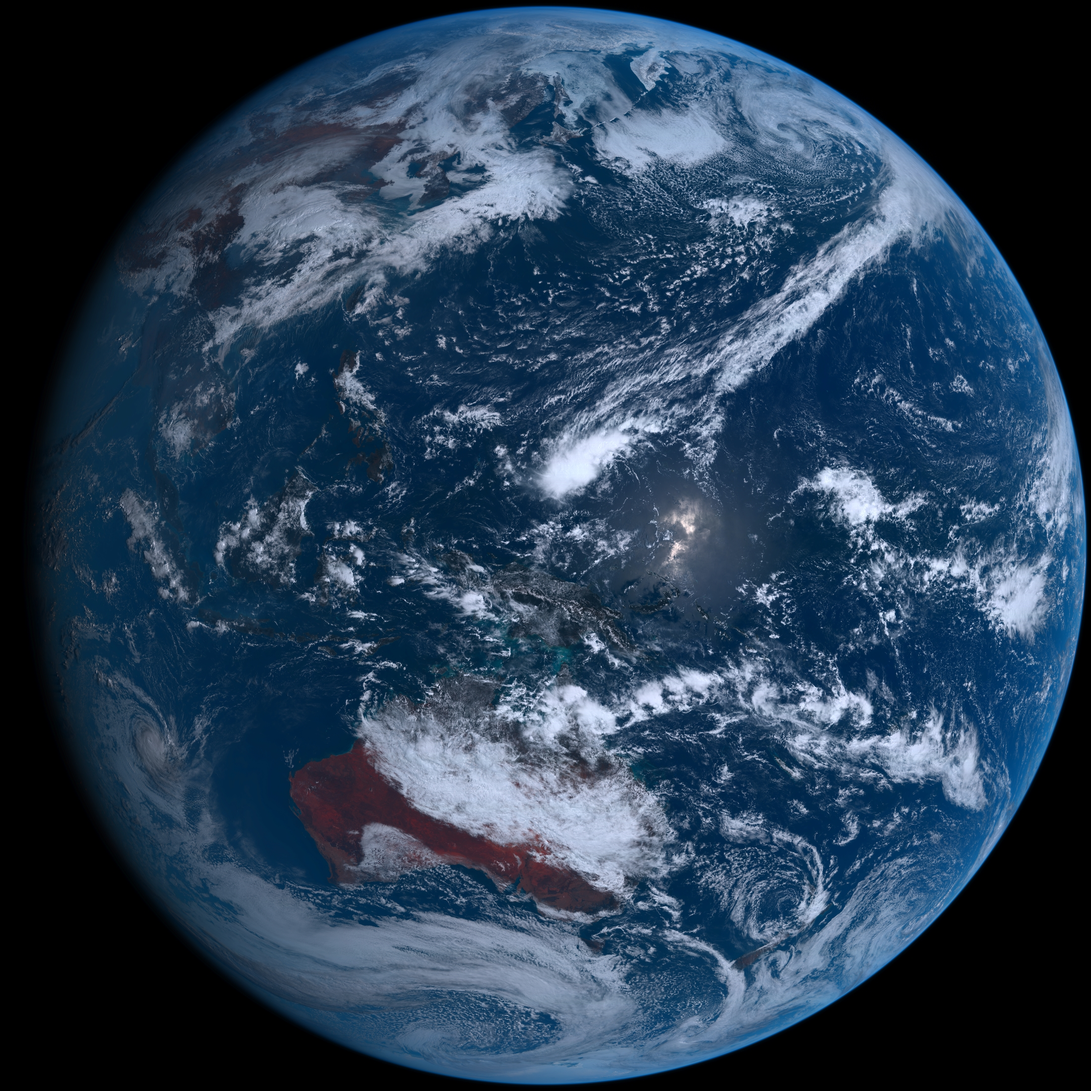
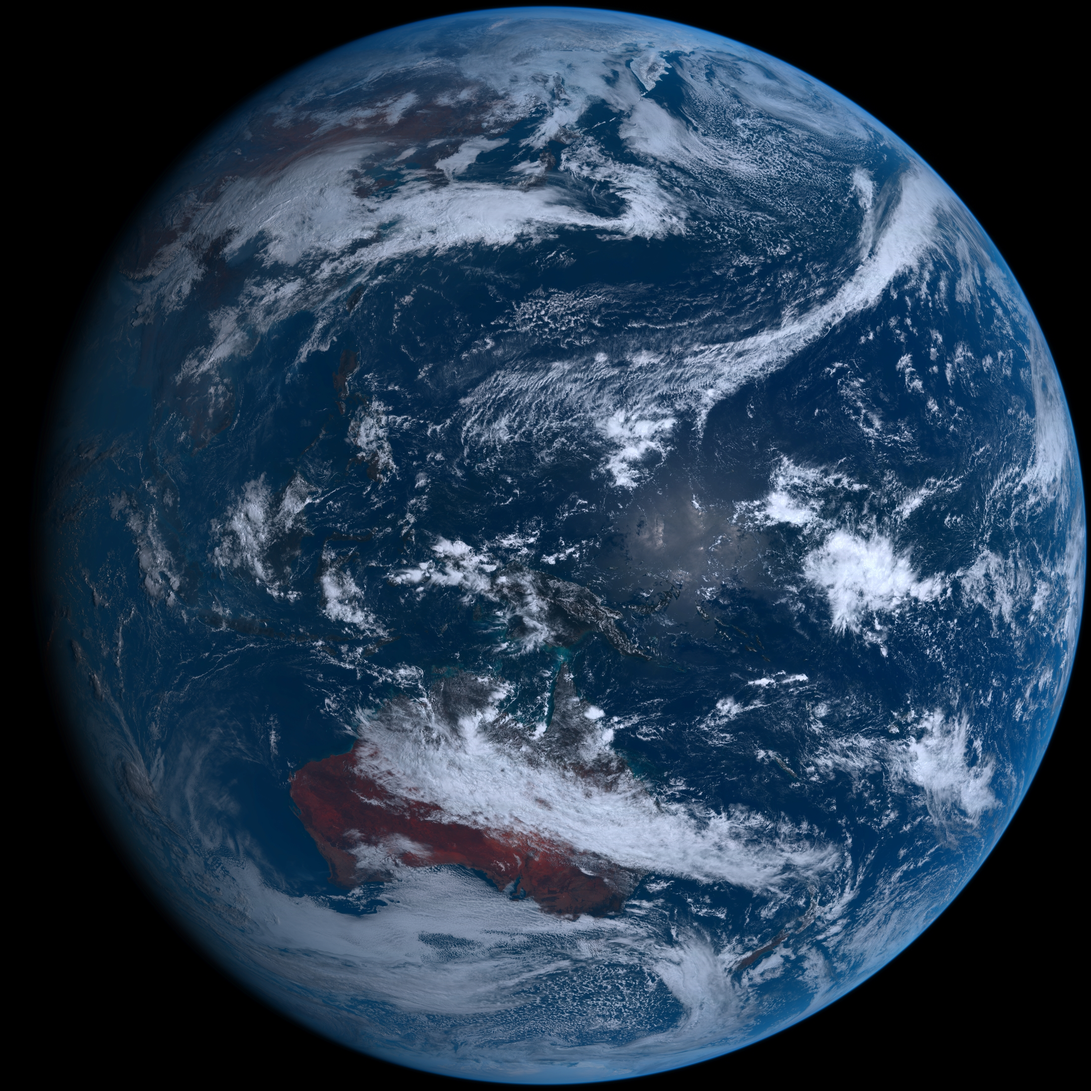
Sunday 03/24/2024 03:08 +00

diff --git a/README.md b/README.md
@@ -1,12 +1,12 @@
 # ps1
 
 - ### [BingWallpaper](https://github.com/milankomaj/ps1/wiki/BingWallpaper)  [![Generate Wallpapers Github README.md](https://github.com/milankomaj/ps1/actions/workflows/GenWall.yml/badge.svg?event=schedule)](https://github.com/milankomaj/ps1/actions/workflows/GenWall.yml)
-- ##### Saturday 23/03/2024 03:09:32 +00
+- ##### Sunday 24/03/2024 03:07:50 +00
 <img src="BingWallpaper/latest.jpg" width="700" height="auto" title="👉  BingWallpaper  👈">
-Large anvil clouds above the Amazon in Brazil (© NASA)
+Silvereyes on a cherry blossom branch, South Korea (© TigerSeo/Getty Images)
 
 - ### [Himawari](https://github.com/milankomaj/ps1/wiki/Himawari) [![Generate Wallpapers Github README.md](https://github.com/milankomaj/ps1/actions/workflows/GenWall.yml/badge.svg?event=schedule)](https://github.com/milankomaj/ps1/actions/workflows/GenWall.yml) [![Video](https://github.com/milankomaj/ps1/actions/workflows/video.yml/badge.svg?event=schedule)](https://github.com/milankomaj/ps1/actions/workflows/video.yml)
-- ##### Saturday 23/03/2024 03:10:07 +00
+- ##### Sunday 24/03/2024 03:08:26 +00
 <img src="Himawari/latest.jpg" width="auto" height="371" title="👉  Himawari  👈"> <img src="Himawari/pifd/himawari_pifd.webp" width="auto" height="371"/>
 
 
